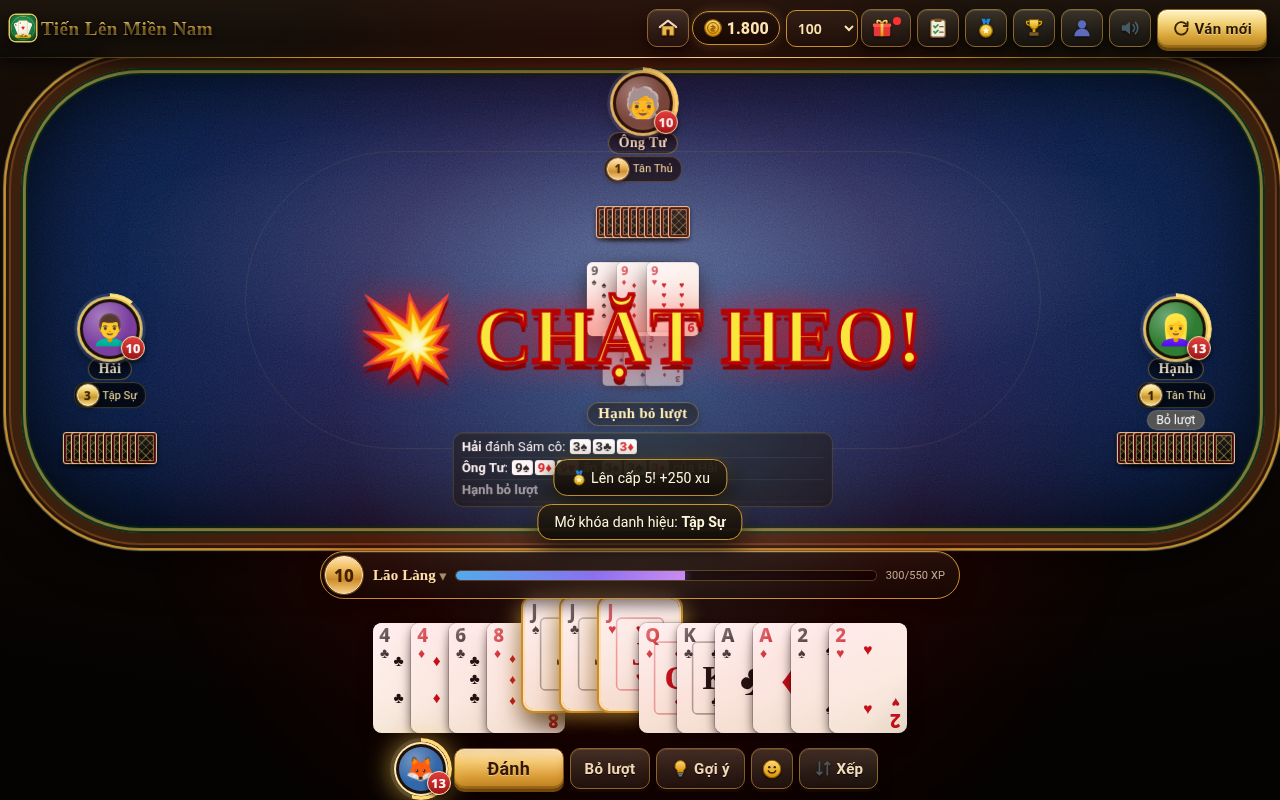
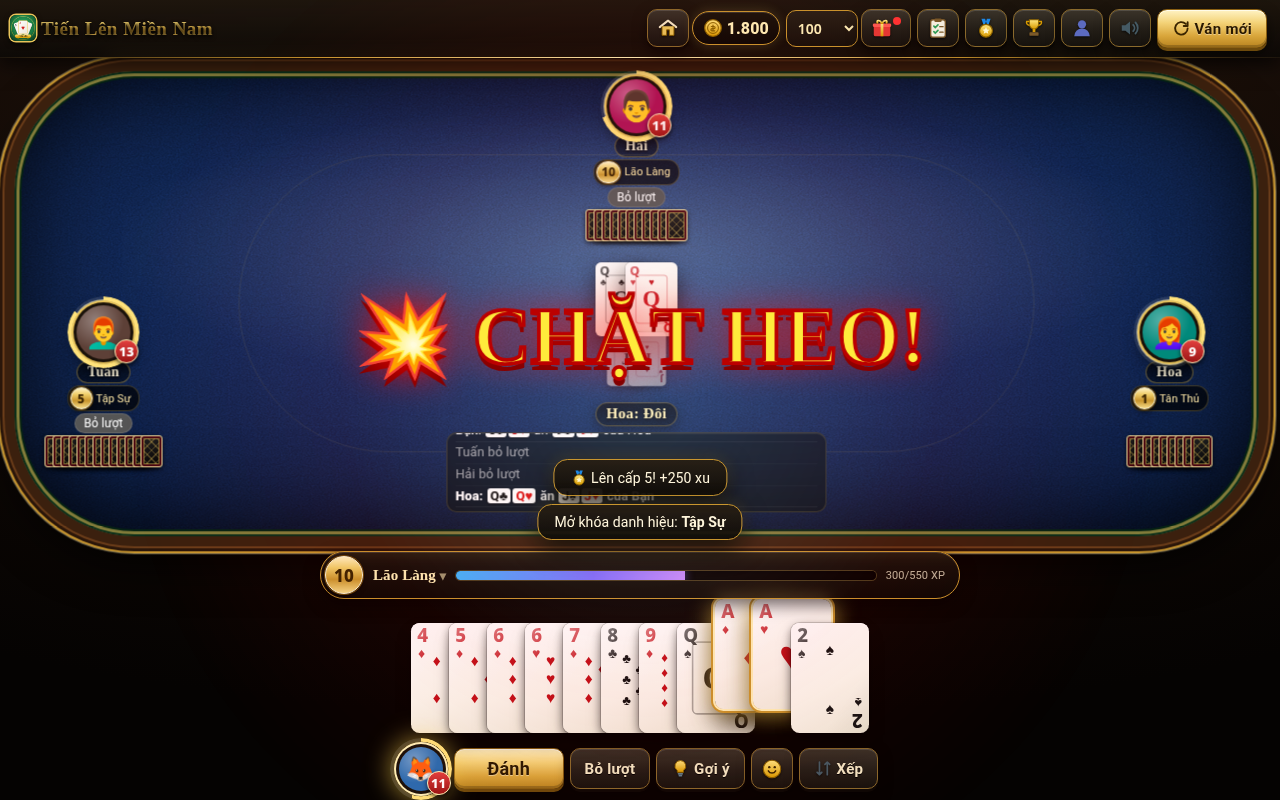
Tối ưu UI mobile: bài 2 hàng to rõ, nút 1 hàng, lịch sử thu gọn, safe-area

Changed region(s): [[0.0, 0.0625, 1.0, 0.7188], [0.2812, 0.7188, 0.7188, 0.9375], [0.625, 0.5312, 0.6562, 0.625]]

diff --git a/index.html b/index.html
@@ -244,6 +244,21 @@ body.athome #home{display:block}body.athome #top,body.athome #table,body.athome 
 .seat .reveal{position:absolute;top:100%;left:50%;transform:translateX(-50%);z-index:3;margin-top:-6px}#s2 .reveal{top:auto;bottom:-6px;left:calc(50% + 50px);transform:none;max-width:none;width:max-content;max-width:320px}
 #s1 .reveal,#s3 .reveal{top:auto;bottom:-48px}
 @media(max-width:700px){.seat .reveal,#s2 .reveal,#s1 .reveal,#s3 .reveal{position:static;transform:none;margin-top:0;width:auto}#top .hm{display:none}}
+
+/* ===== Tối ưu mobile ===== */
+#hand.two{flex-wrap:wrap;align-content:flex-start}#hand.two .brk{flex-basis:100%;height:0}#hand.two .brk+.card{margin-left:0}
+#hand.two .card.r2{margin-top:calc(var(--ch) * -0.42)}
+@media(max-width:700px){
+ #ctrl{flex-wrap:nowrap!important;gap:6px!important;padding:0 6px}#ctrl button{margin:0;padding-left:10px;padding-right:10px;min-width:0}#ctrl .tx{display:none}#ctrl button{white-space:nowrap}
+ #bPlay{flex:1.4;min-width:0!important}#bPass{flex:1}#ctrl .alt.ic,#bHint,#bSort{flex:none;width:44px;padding:8px 0!important;display:grid;place-items:center}
+ #hand{padding-top:16px!important;min-height:0!important;padding-bottom:2px}
+ #me{gap:4px!important;padding-bottom:max(6px,env(safe-area-inset-bottom))!important}
+ #top{padding-top:max(4px,env(safe-area-inset-top))}
+ #hist{max-height:none!important;cursor:pointer;width:min(96%,360px);padding:3px 8px}
+ #hist:not(.open) div:not(:last-child){display:none}#hist:not(.open) div{white-space:nowrap;overflow:hidden;text-overflow:ellipsis;border:0}
+ #hist:not(.open)::after{content:'▾';position:absolute;right:6px;top:3px;opacity:.6}#hist{position:relative}
+ #hist.open{max-height:40vh!important;overflow:auto}#hist:empty{display:none}
+}
 </style></head><body>
 <svg width="0" height="0" style="position:absolute" aria-hidden="true"><defs>
 <linearGradient id="gGold" x1="0" y1="0" x2="0" y2="1"><stop offset="0" stop-color="#ffe680"/><stop offset="1" stop-color="#d89b00"/></linearGradient>
@@ -277,14 +292,14 @@ body.athome #home{display:block}body.athome #top,body.athome #table,body.athome 
 <div id="top"><b class="logo"><img src="icons/icon-192.png" alt="" width="26" height="26"> Tiến Lên Miền Nam</b><div class="r"><button class="alt ic" id="bHome" onclick="goHome()" title="Màn hình chính"><svg class="i"><use href="#i-home"/></svg></button><span id="xu"></span><select id="bet" onchange="setBet(this.value)" aria-label="Mức cược"></select>
 <button class="alt ic" onclick="openDaily()" title="Quà điểm danh"><svg class="i"><use href="#i-gift"/></svg><span id="d1"></span></button><button class="alt ic" onclick="openQuests()" title="Nhiệm vụ"><svg class="i"><use href="#i-quest"/></svg><span id="d2"></span></button><button class="alt ic hm" onclick="openBadges()" title="Huy hiệu"><svg class="i"><use href="#i-medal"/></svg></button><button class="alt ic hm" onclick="showScore()" title="Bảng điểm"><svg class="i"><use href="#i-trophy"/></svg></button><button class="alt ic hm" onclick="openAccount()" title="Tài khoản &amp; sao lưu"><svg class="i"><use href="#i-user"/></svg><span id="d3"></span></button><button class="alt ic" id="bInstall" onclick="doInstall()" title="Cài đặt ứng dụng" style="display:none"><svg class="i"><use href="#i-install"/></svg></button><button class="alt ic" id="bMute" onclick="toggleMute()" title="Âm thanh"><svg class="i"><use href="#i-sound"/></svg></button><button id="bNew" onclick="newGame()" title="Ván mới"><svg class="i"><use href="#i-new"/></svg><span class="lbl"> Ván mới</span></button></div></div>
 <div id="table"><div class="seat" id="s2"></div><div class="seat" id="s1"></div>
-<div id="center"><div id="pileWrap"><div class="pile" id="pile"></div><div class="pile" id="prev"></div></div><div id="msg"></div><div id="hist"></div></div>
+<div id="center"><div id="pileWrap"><div class="pile" id="pile"></div><div class="pile" id="prev"></div></div><div id="msg"></div><div id="hist" onclick="this.classList.toggle('open')" title="Chạm để xem lịch sử"></div></div>
 <div class="seat" id="s3"></div></div>
-<div id="me"><div id="meInfo" onclick="openTitles()" title="Cấp độ &amp; danh hiệu"></div><div id="hand"></div><div id="meBar"><div class="av"> <span class="cnt" id="myCnt"></span></div><div id="ctrl"><button id="bPlay" onclick="humanPlay()">Đánh</button><button id="bPass" class="alt" onclick="humanPass()">Bỏ lượt</button><button class="alt" onclick="hint()"><svg class="i"><use href="#i-bulb"/></svg> Gợi ý</button><button class="alt ic" id="bChat" onclick="toggleChat()" title="Trò chuyện" style="display:none"><svg class="i"><use href="#i-chat"/></svg></button><button class="alt ic" onclick="toggleEmotes()" title="Biểu cảm"><svg class="i"><use href="#i-smile"/></svg></button><button class="alt" onclick="sortHand()"><svg class="i"><use href="#i-sort"/></svg> Xếp</button></div></div></div>
+<div id="me"><div id="meInfo" onclick="openTitles()" title="Cấp độ &amp; danh hiệu"></div><div id="hand"></div><div id="meBar"><div class="av"> <span class="cnt" id="myCnt"></span></div><div id="ctrl"><button id="bPlay" onclick="humanPlay()">Đánh</button><button id="bPass" class="alt" onclick="humanPass()">Bỏ lượt</button><button class="alt" id="bHint" onclick="hint()" title="Gợi ý"><svg class="i"><use href="#i-bulb"/></svg><span class="tx"> Gợi ý</span></button><button class="alt ic" id="bChat" onclick="toggleChat()" title="Trò chuyện" style="display:none"><svg class="i"><use href="#i-chat"/></svg></button><button class="alt ic" onclick="toggleEmotes()" title="Biểu cảm"><svg class="i"><use href="#i-smile"/></svg></button><button class="alt" id="bSort" onclick="sortHand()" title="Xếp bài"><svg class="i"><use href="#i-sort"/></svg><span class="tx"> Xếp</span></button></div></div></div>
 <div id="score" onclick="if(event.target===this)this.style.display='none'"><div id="scoreIn"></div></div>
 <div class="modal" id="modal" onclick="if(event.target===this)closeModal()"><div id="modalIn"></div></div><div id="home"></div><div id="emoBar"></div><div id="chatDraw"></div><div id="toast"></div><div id="fx"></div>
 <script src="cloud-config.js"></script>
 <script>
-const APP_VER='344e5a1671';
+const APP_VER='7d94ec3323';
 // RULES_START
 const RANKS=['3','4','5','6','7','8','9','10','J','Q','K','A','2'];
 const SUITS=['♠','♣','♦','♥'];
@@ -743,7 +758,10 @@ function render(){
  const pv=$('prev');pv.innerHTML='';(G.prev||[]).forEach(c=>pv.appendChild(cardEl(c)));
  const hs=$('hist');hs.innerHTML=G.hist.map(h=>`<div class="${h.cls}">${h.txt}</div>`).join('');hs.scrollTop=1e6;
  let h=G.hands[0].slice();if(sortMode)h.sort((a,b)=>st(a)-st(b)||a-b);else h=sortCards(h);
- const hd=$('hand');hd.innerHTML='';h.forEach(c=>hd.appendChild(cardEl(c,true)));
+ const hd=$('hand');hd.innerHTML='';const W=(typeof innerWidth!=='undefined'?innerWidth:1000),two=W<=700&&h.length>7,k=two?Math.ceil(h.length/2):h.length;
+ h.forEach((c,i)=>{if(two&&i===k){const b=document.createElement('div');b.className='brk';hd.appendChild(b);}const e=cardEl(c,true);if(two&&i>=k)e.className+=' r2';hd.appendChild(e);});
+ hd.className=two?'two':'';if(hd.style&&hd.style.setProperty){if(W<=700){const n=Math.max(k,1),av=W-28,cw=Math.min(two?Math.min(84,(typeof innerHeight!=='undefined'?innerHeight:900)*0.1):64,av/(1+0.58*(n-1)));const ov=n>1?Math.min(-cw*0.42,(av-n*cw)/(n-1)):0;
+  hd.style.setProperty('--cw',cw.toFixed(1)+'px');hd.style.setProperty('--ch',(cw*1.43).toFixed(1)+'px');hd.style.setProperty('--ov',ov.toFixed(1)+'px');}else{['--cw','--ch','--ov'].forEach(v=>hd.style.removeProperty(v));}}
  $('myCnt').textContent=G.hands[0].length;renderMe();
  $('me').className=G.turn===0&&!G.over?'turn':'';
  $('bPlay').disabled=G.over||G.turn!==0;$('bPass').disabled=G.over||G.turn!==0||!G.cur;
@@ -901,6 +919,7 @@ function sendEmote(e){$('emoBar').className='';showEmote(0,e);if(typeof onlineEm
 function showEmote(p,e){const host=p===0?$('meInfo'):$('s'+p);if(!host||!host.appendChild)return;const d=document.createElement('div');d.className='bubble'+([...e].length<=2?' big':'');d.textContent=e;host.appendChild(d);setTimeout(()=>d.remove&&d.remove(),2600);sfx('tap');}
 sortMode=+(localStorage.getItem('tlmn_sort')||0);
 applyCosmetics();
+window.addEventListener('resize',()=>{if(G&&G.started&&!document.body.classList.contains('athome'))render();});
 // ---------- Chơi online với bạn bè (Supabase Realtime, kênh riêng tư 'tlmn:*') ----------
 const ONL={active:false,code:null,ch:null,tr:null,host:null,client:null,me:null,st:null,room:null,lastRev:-1,rewarded:null,lastEvKey:null,presence:[],chat:[]};
 let LOBBY=null,MYCODE=null;

diff --git a/src/head.html b/src/head.html
@@ -244,6 +244,21 @@ body.athome #home{display:block}body.athome #top,body.athome #table,body.athome 
 .seat .reveal{position:absolute;top:100%;left:50%;transform:translateX(-50%);z-index:3;margin-top:-6px}#s2 .reveal{top:auto;bottom:-6px;left:calc(50% + 50px);transform:none;max-width:none;width:max-content;max-width:320px}
 #s1 .reveal,#s3 .reveal{top:auto;bottom:-48px}
 @media(max-width:700px){.seat .reveal,#s2 .reveal,#s1 .reveal,#s3 .reveal{position:static;transform:none;margin-top:0;width:auto}#top .hm{display:none}}
+
+/* ===== Tối ưu mobile ===== */
+#hand.two{flex-wrap:wrap;align-content:flex-start}#hand.two .brk{flex-basis:100%;height:0}#hand.two .brk+.card{margin-left:0}
+#hand.two .card.r2{margin-top:calc(var(--ch) * -0.42)}
+@media(max-width:700px){
+ #ctrl{flex-wrap:nowrap!important;gap:6px!important;padding:0 6px}#ctrl button{margin:0;padding-left:10px;padding-right:10px;min-width:0}#ctrl .tx{display:none}#ctrl button{white-space:nowrap}
+ #bPlay{flex:1.4;min-width:0!important}#bPass{flex:1}#ctrl .alt.ic,#bHint,#bSort{flex:none;width:44px;padding:8px 0!important;display:grid;place-items:center}
+ #hand{padding-top:16px!important;min-height:0!important;padding-bottom:2px}
+ #me{gap:4px!important;padding-bottom:max(6px,env(safe-area-inset-bottom))!important}
+ #top{padding-top:max(4px,env(safe-area-inset-top))}
+ #hist{max-height:none!important;cursor:pointer;width:min(96%,360px);padding:3px 8px}
+ #hist:not(.open) div:not(:last-child){display:none}#hist:not(.open) div{white-space:nowrap;overflow:hidden;text-overflow:ellipsis;border:0}
+ #hist:not(.open)::after{content:'▾';position:absolute;right:6px;top:3px;opacity:.6}#hist{position:relative}
+ #hist.open{max-height:40vh!important;overflow:auto}#hist:empty{display:none}
+}
 </style></head><body>
 <svg width="0" height="0" style="position:absolute" aria-hidden="true"><defs>
 <linearGradient id="gGold" x1="0" y1="0" x2="0" y2="1"><stop offset="0" stop-color="#ffe680"/><stop offset="1" stop-color="#d89b00"/></linearGradient>
@@ -277,9 +292,9 @@ body.athome #home{display:block}body.athome #top,body.athome #table,body.athome 
 <div id="top"><b class="logo"><img src="icons/icon-192.png" alt="" width="26" height="26"> Tiến Lên Miền Nam</b><div class="r"><button class="alt ic" id="bHome" onclick="goHome()" title="Màn hình chính"><svg class="i"><use href="#i-home"/></svg></button><span id="xu"></span><select id="bet" onchange="setBet(this.value)" aria-label="Mức cược"></select>
 <button class="alt ic" onclick="openDaily()" title="Quà điểm danh"><svg class="i"><use href="#i-gift"/></svg><span id="d1"></span></button><button class="alt ic" onclick="openQuests()" title="Nhiệm vụ"><svg class="i"><use href="#i-quest"/></svg><span id="d2"></span></button><button class="alt ic hm" onclick="openBadges()" title="Huy hiệu"><svg class="i"><use href="#i-medal"/></svg></button><button class="alt ic hm" onclick="showScore()" title="Bảng điểm"><svg class="i"><use href="#i-trophy"/></svg></button><button class="alt ic hm" onclick="openAccount()" title="Tài khoản &amp; sao lưu"><svg class="i"><use href="#i-user"/></svg><span id="d3"></span></button><button class="alt ic" id="bInstall" onclick="doInstall()" title="Cài đặt ứng dụng" style="display:none"><svg class="i"><use href="#i-install"/></svg></button><button class="alt ic" id="bMute" onclick="toggleMute()" title="Âm thanh"><svg class="i"><use href="#i-sound"/></svg></button><button id="bNew" onclick="newGame()" title="Ván mới"><svg class="i"><use href="#i-new"/></svg><span class="lbl"> Ván mới</span></button></div></div>
 <div id="table"><div class="seat" id="s2"></div><div class="seat" id="s1"></div>
-<div id="center"><div id="pileWrap"><div class="pile" id="pile"></div><div class="pile" id="prev"></div></div><div id="msg"></div><div id="hist"></div></div>
+<div id="center"><div id="pileWrap"><div class="pile" id="pile"></div><div class="pile" id="prev"></div></div><div id="msg"></div><div id="hist" onclick="this.classList.toggle('open')" title="Chạm để xem lịch sử"></div></div>
 <div class="seat" id="s3"></div></div>
-<div id="me"><div id="meInfo" onclick="openTitles()" title="Cấp độ &amp; danh hiệu"></div><div id="hand"></div><div id="meBar"><div class="av"> <span class="cnt" id="myCnt"></span></div><div id="ctrl"><button id="bPlay" onclick="humanPlay()">Đánh</button><button id="bPass" class="alt" onclick="humanPass()">Bỏ lượt</button><button class="alt" onclick="hint()"><svg class="i"><use href="#i-bulb"/></svg> Gợi ý</button><button class="alt ic" id="bChat" onclick="toggleChat()" title="Trò chuyện" style="display:none"><svg class="i"><use href="#i-chat"/></svg></button><button class="alt ic" onclick="toggleEmotes()" title="Biểu cảm"><svg class="i"><use href="#i-smile"/></svg></button><button class="alt" onclick="sortHand()"><svg class="i"><use href="#i-sort"/></svg> Xếp</button></div></div></div>
+<div id="me"><div id="meInfo" onclick="openTitles()" title="Cấp độ &amp; danh hiệu"></div><div id="hand"></div><div id="meBar"><div class="av"> <span class="cnt" id="myCnt"></span></div><div id="ctrl"><button id="bPlay" onclick="humanPlay()">Đánh</button><button id="bPass" class="alt" onclick="humanPass()">Bỏ lượt</button><button class="alt" id="bHint" onclick="hint()" title="Gợi ý"><svg class="i"><use href="#i-bulb"/></svg><span class="tx"> Gợi ý</span></button><button class="alt ic" id="bChat" onclick="toggleChat()" title="Trò chuyện" style="display:none"><svg class="i"><use href="#i-chat"/></svg></button><button class="alt ic" onclick="toggleEmotes()" title="Biểu cảm"><svg class="i"><use href="#i-smile"/></svg></button><button class="alt" id="bSort" onclick="sortHand()" title="Xếp bài"><svg class="i"><use href="#i-sort"/></svg><span class="tx"> Xếp</span></button></div></div></div>
 <div id="score" onclick="if(event.target===this)this.style.display='none'"><div id="scoreIn"></div></div>
 <div class="modal" id="modal" onclick="if(event.target===this)closeModal()"><div id="modalIn"></div></div><div id="home"></div><div id="emoBar"></div><div id="chatDraw"></div><div id="toast"></div><div id="fx"></div>
 <script src="cloud-config.js"></script>

diff --git a/src/game.js b/src/game.js
@@ -147,7 +147,10 @@ function render(){
  const pv=$('prev');pv.innerHTML='';(G.prev||[]).forEach(c=>pv.appendChild(cardEl(c)));
  const hs=$('hist');hs.innerHTML=G.hist.map(h=>`<div class="${h.cls}">${h.txt}</div>`).join('');hs.scrollTop=1e6;
  let h=G.hands[0].slice();if(sortMode)h.sort((a,b)=>st(a)-st(b)||a-b);else h=sortCards(h);
- const hd=$('hand');hd.innerHTML='';h.forEach(c=>hd.appendChild(cardEl(c,true)));
+ const hd=$('hand');hd.innerHTML='';const W=(typeof innerWidth!=='undefined'?innerWidth:1000),two=W<=700&&h.length>7,k=two?Math.ceil(h.length/2):h.length;
+ h.forEach((c,i)=>{if(two&&i===k){const b=document.createElement('div');b.className='brk';hd.appendChild(b);}const e=cardEl(c,true);if(two&&i>=k)e.className+=' r2';hd.appendChild(e);});
+ hd.className=two?'two':'';if(hd.style&&hd.style.setProperty){if(W<=700){const n=Math.max(k,1),av=W-28,cw=Math.min(two?Math.min(84,(typeof innerHeight!=='undefined'?innerHeight:900)*0.1):64,av/(1+0.58*(n-1)));const ov=n>1?Math.min(-cw*0.42,(av-n*cw)/(n-1)):0;
+  hd.style.setProperty('--cw',cw.toFixed(1)+'px');hd.style.setProperty('--ch',(cw*1.43).toFixed(1)+'px');hd.style.setProperty('--ov',ov.toFixed(1)+'px');}else{['--cw','--ch','--ov'].forEach(v=>hd.style.removeProperty(v));}}
  $('myCnt').textContent=G.hands[0].length;renderMe();
  $('me').className=G.turn===0&&!G.over?'turn':'';
  $('bPlay').disabled=G.over||G.turn!==0;$('bPass').disabled=G.over||G.turn!==0||!G.cur;

diff --git a/sw.js b/sw.js
@@ -1,5 +1,5 @@
 // Service worker: cache toàn bộ để chơi offline
-const CACHE='tlmn-v5-344e5a1671';
+const CACHE='tlmn-v5-7d94ec3323';
 const ASSETS=['./','index.html','manifest.webmanifest','cloud-config.js','vendor/supabase.js','favicon.svg','icons/icon.svg','icons/icon-192.png','icons/icon-512.png','icons/maskable-512.png','icons/apple-touch-icon.png','icons/favicon-32.png'];
 self.addEventListener('install',e=>{e.waitUntil(caches.open(CACHE).then(c=>c.addAll(ASSETS)).then(()=>self.skipWaiting()));});
 self.addEventListener('activate',e=>{e.waitUntil(caches.keys().then(ks=>Promise.all(ks.filter(k=>k.startsWith('tlmn-')&&k!==CACHE).map(k=>caches.delete(k)))).then(()=>self.clients.claim()));});

diff --git a/src/home.js b/src/home.js
@@ -63,3 +63,4 @@ function sendEmote(e){$('emoBar').className='';showEmote(0,e);if(typeof onlineEm
 function showEmote(p,e){const host=p===0?$('meInfo'):$('s'+p);if(!host||!host.appendChild)return;const d=document.createElement('div');d.className='bubble'+([...e].length<=2?' big':'');d.textContent=e;host.appendChild(d);setTimeout(()=>d.remove&&d.remove(),2600);sfx('tap');}
 sortMode=+(localStorage.getItem('tlmn_sort')||0);
 applyCosmetics();
+window.addEventListener('resize',()=>{if(G&&G.started&&!document.body.classList.contains('athome'))render();});
